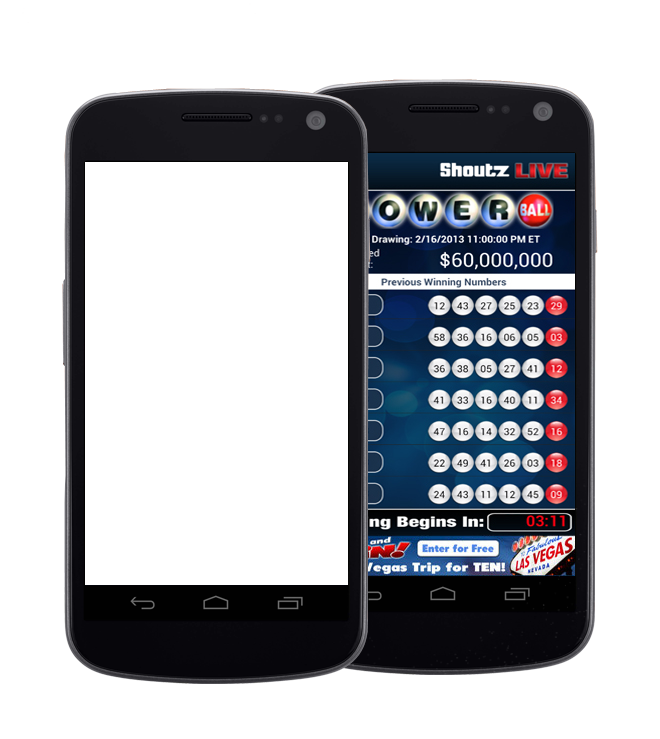
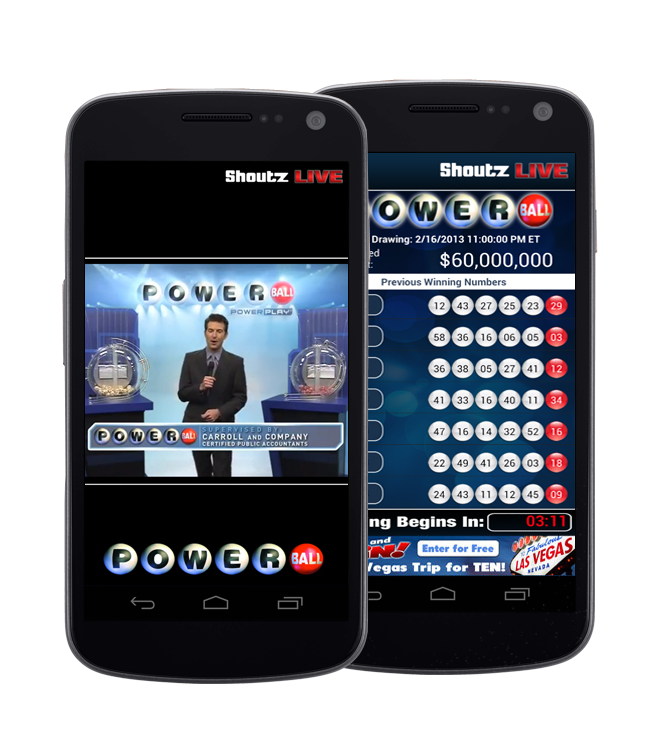
New index page and image

Changed region(s): [[0.1212, 0.2179, 0.5455, 0.8092]]

diff --git a/web/index.html b/web/index.html
@@ -27,52 +27,9 @@
         <script type="text/javascript" src="js/jquery.facebox.js"></script>                
 
         <!-- Main script -->
-        <script type="text/javascript" src="js/main.js"></script>   
-		<script type="text/javascript">
-			function subscribe()
-			{
-				var inputEmail = $('input#subscribe').val();
-				var isValid = true;
-				var emailReg = /^([\w-\.]+@([\w-]+\.)+[\w-]{2,4})?$/;
-				if(!emailReg.test(inputEmail) || inputEmail == ""){
-					isValid = false;        
-					$('#subscribeMesage').text("Your email is not in valid format!");
-					$('#subscribeMesage').removeClass('green-label').addClass('red-label');
-				}
-				if(isValid){
-					//document.forms['emailform'].submit();
-					var params = {
-						'action'    : 'Subscribe',
-						'email'     : inputEmail
-					};
-					$.ajax({
-						type: "GET",
-						//type: "POST",
-						url: "db.php?subscribe=" + inputEmail,
-						//url: "php/mainHandler.php",
-						//data: params,
-						success: function(response){
-							if(response){
-									$('#subscribe').val('');
-									$('#subscribeMesage').text(response);
-									//$('#subscribeMesage').text("Thanks, we will send you a reminder!");
-									$('#subscribeMesage').removeClass('red-label').addClass('green-label');
-							}
-							else {
-									$('#subscribe').val('');
-									$('#subscribeMesage').text("Something went wrong");
-									//$('#subscribeMesage').text("Thanks, we will send you a reminder!");
-									$('#subscribeMesage').removeClass('green-label').addClass('red-label');
-							}
-						}
-					});
-				}
-			};
-		</script>
-		<script src="js/MobilePopup.js" type="text/javascript"></script>
+        <script type="text/javascript" src="js/main.js"></script>                       
     </head>
     <body>    
-		<div id="container"></div>
         <table class="doc-loader">
             <tr>
                 <td>
@@ -83,24 +40,14 @@
         <div class="header">
             <div class="center-content">
                 <div class="phone-hand">
-                    <ul id="slider" class="theme-default">
-                        <li>
-                            <img src="images/slide_01.jpg" />
-                        </li>
-                        <li>
-                            <img src="images/slide_02.jpg" />
-                        </li>
-                        <li>
-                            <img src="images/slide_03.jpg" />
-                        </li>
-                    </ul>
                 </div>
                 <div class="info">
                     <h1>&nbsp;</h1>
                     <h1> <img src="images/pb.png" /></h1>
                     <p>
-						Win $100 TODAY by downloading the <strong>Shoutz™</strong> app! <br /><br />
-						We're giving away $100 a day for 60 days. Become $100 Richer and receive the Powerball Mobile Experience! Download today!
+                        Download <strong>Shoutz™</strong> app Today <br />
+                         enjoy the Mobile Powerball Experience on your mobile 
+                         <br /> Dial <strong> **SHOUTZ Now! </strong>
                     </p>
                     <p>&nbsp;</p>
                     <table width="200" border="0">
@@ -123,8 +70,7 @@
                     </p>
                 </div>
                 <div class="subscribe">
-                    <form name="emailform" id="emailform" action="index.php" method="get">
-					<div class="left subscribe-input-holder">
+                    <div class="left subscribe-input-holder">
                         <input type="text" id="subscribe" name="subscribe"/>  
                         <span class="info-label block align-center">
                             Want a reminder to download later? Enter your email address for a reminder.
@@ -159,7 +105,7 @@
         </div>
         <div id="contact">
             <div class="contact">
-				<img class="fill-the-forms" src="images/fill_the_forms.png" alt="Fill the forms bellow"/>
+                <img class="fill-the-forms" src="images/fill_the_forms.png" alt="Fill the forms bellow"/>
                 <a class="closePopup" href="javascript: ClosePopupWindow();"><img src="images/close.png" alt="Close"/></a>
                 <ul class="user-data">
                     <li>
@@ -178,7 +124,7 @@
                         <a href="javascript: SendMail();" class="link-button left">
                             <img src="images/send_msg_button.png" class="button-image" alt="Submit"/>
                         </a>
-                        <span id="messageStatus" class="info-label block green-label right">      
+                        <span id="messageStatus" class="info-label block green-label right">                            
                         </span>
                     </li>
                 </ul>
